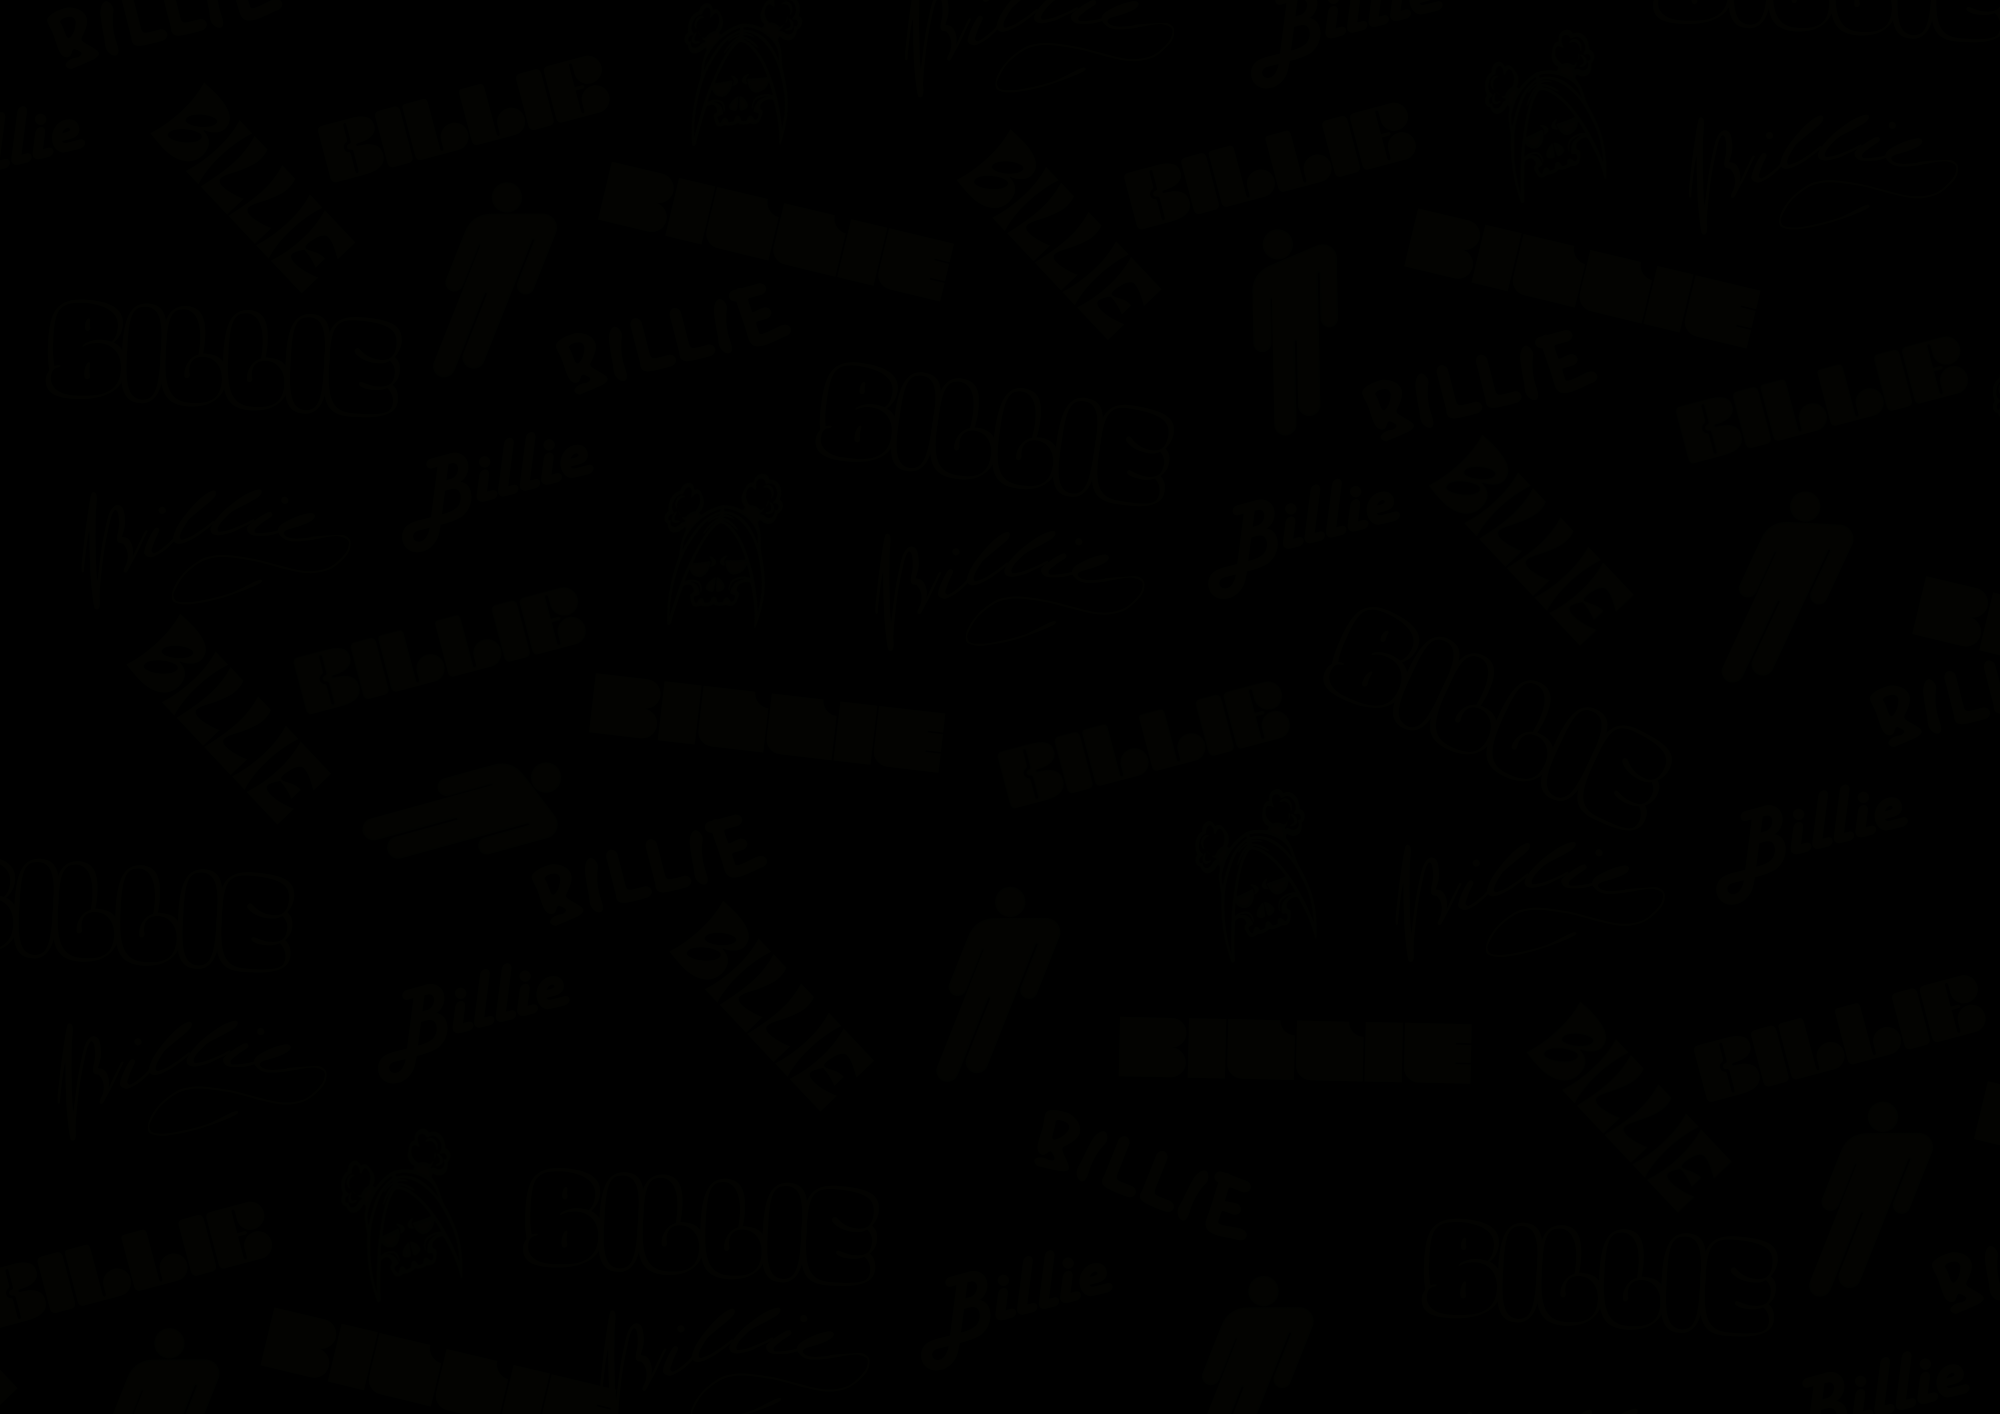
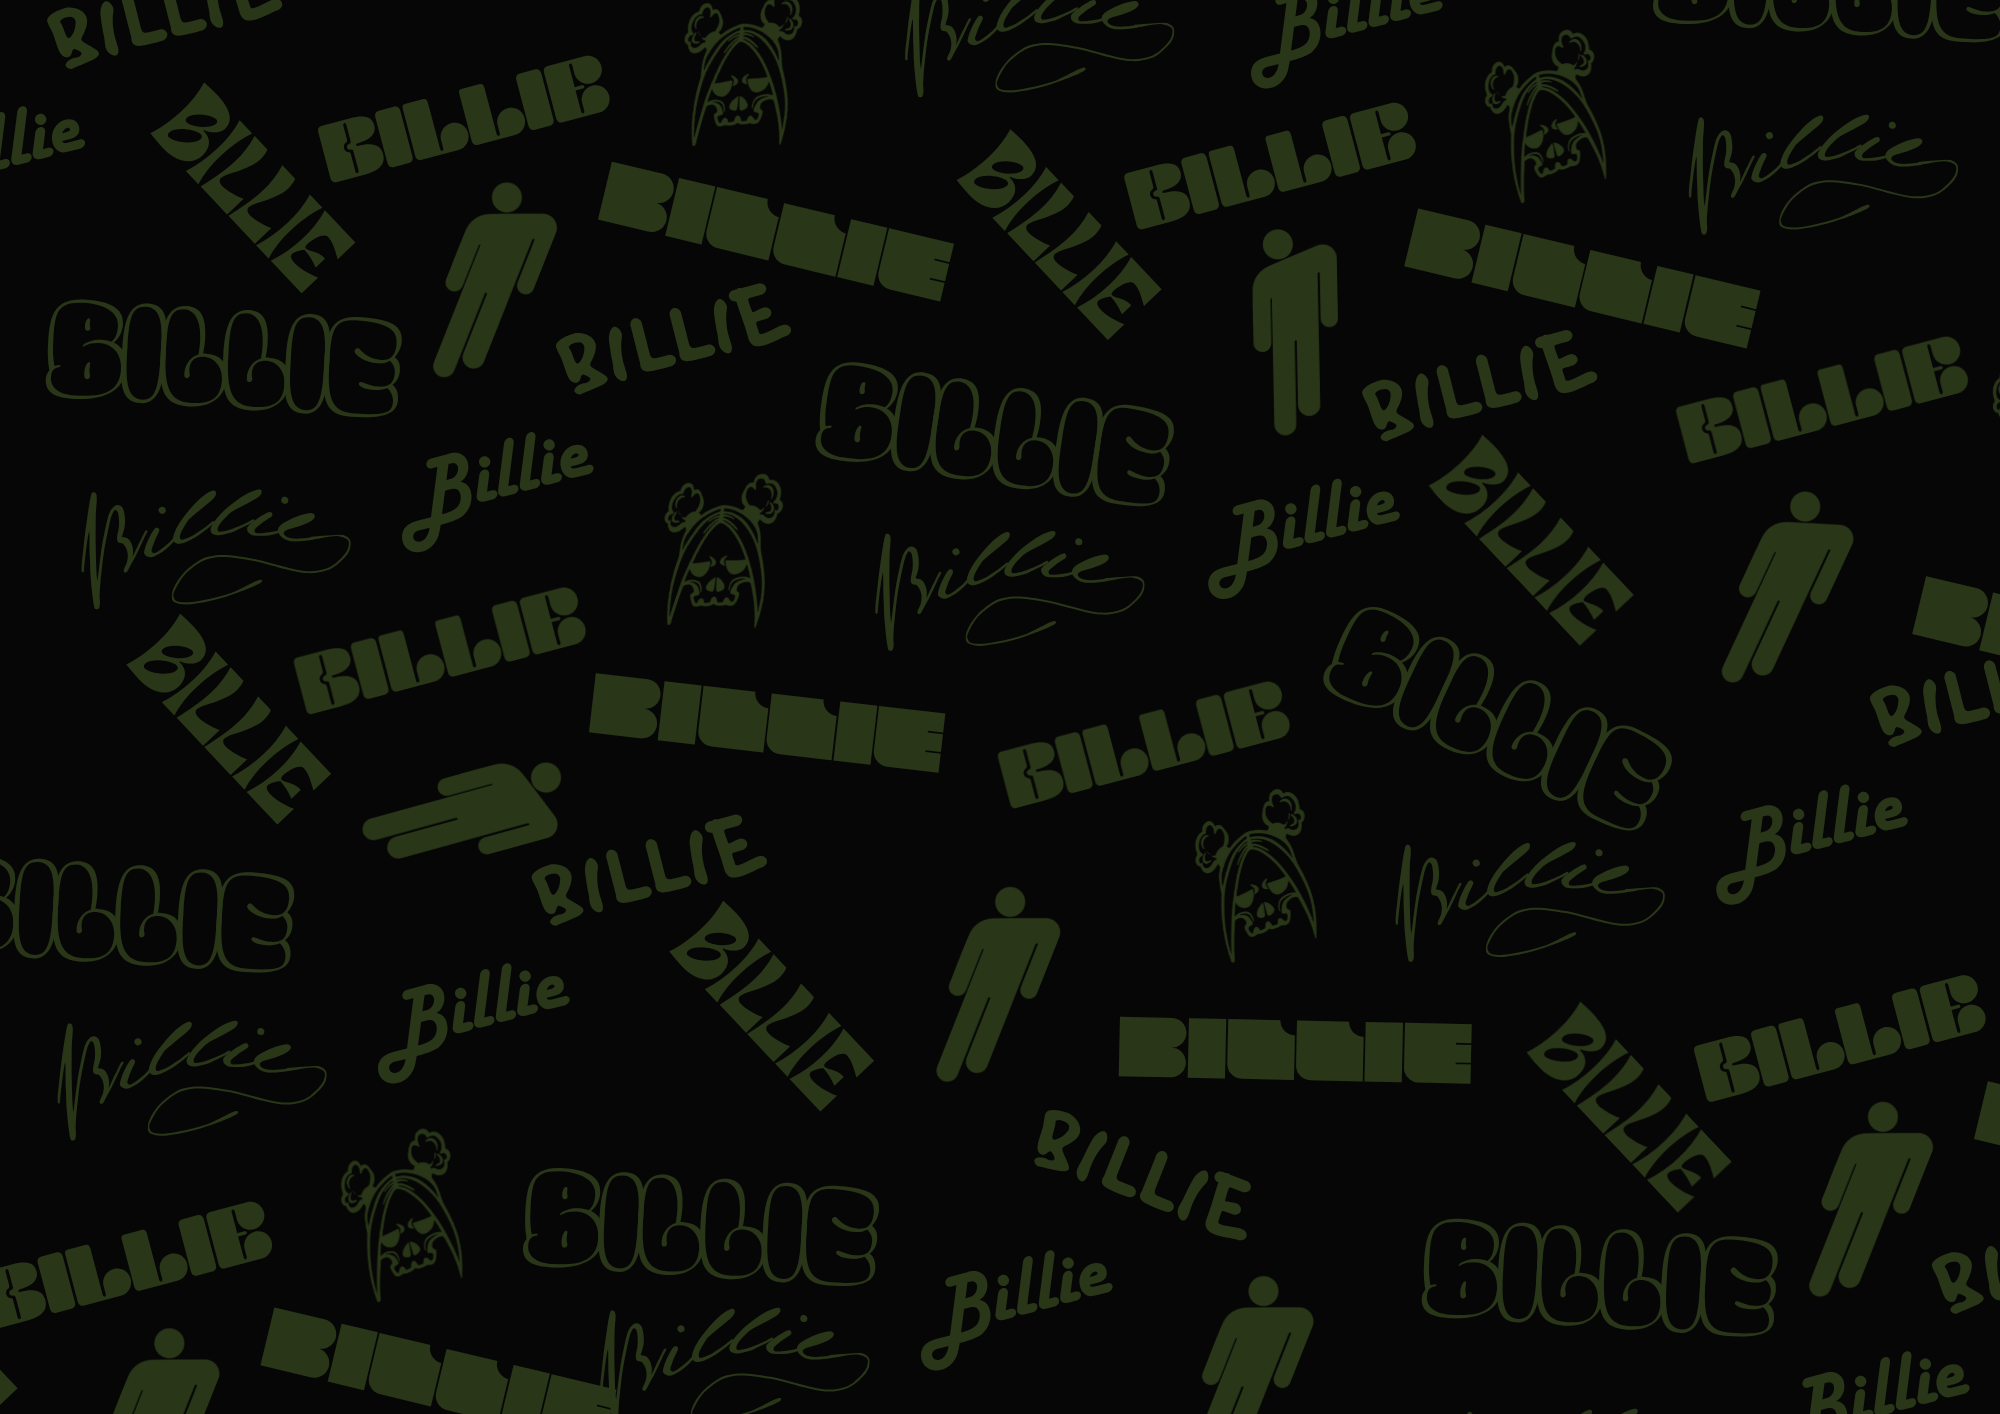
Conteúdo home adicionado

diff --git a/UI_ProjetoBillie/index.html b/UI_ProjetoBillie/index.html
@@ -63,30 +63,66 @@ fill="#E8F0F2" stroke="none">
         </div>        
     </div>
     <div id="main" class="col">
-        <div id="content_main" class = "container-main">
-            <!-- <div id="home_content">
-                <h1>Bem Vindo ao Mundo Billie</h1><br><br>
-                 <label for="home_content">Descubra tudo sobre a vida e carreira desta artista incrível.</label><br>
+        <img src="../assets/Banner_Billie2.png" alt="" class="banner">
+        <div id="content_main" class = "container-main">           
+                <div id="home_content">
+                <h1>Bem Vindo ao Mundo Billie</h1>
+
+                <img src="../assets/gettyimages-2013763181.jpg" alt="" style="width:  85%; height:85%"> <br>
+                
+                Billie Eilish Pirate Baird O’Connell nasceu em 18 de dezembro de 2001, em Los Angeles, EUA. Cresceu em um ambiente familiar muito artístico: tanto seus pais quanto seu irmão, Finneas O’Connell, sempre incentivaram a criatividade. Por conta disso, ela foi educada em casa (“home-schooling”), o que deu bastante liberdade para ela explorar a música desde muito jovem. 
+
+                <h2>Infância e os Primeiros Passos na Música</h2> 
+                                
+                Desde criança, Billie mostrou interesse por arte e música. Ela participou do coral infantil de Los Angeles, experimentou dança e equitação, e desenhava suas próprias ideias criativas. Quando tinha por volta de 11 anos, começou a compor suas próprias músicas — uma de suas primeiras canções “reais” foi escrita com a ajuda dos pais e do irmão. 
+                                
+                O irmão de Billie, Finneas, tem papel fundamental em sua trajetória: não só escreve para ela, mas também produz praticamente toda sua música. Foi Finneas quem escreveu a música “Ocean Eyes”, originalmente para sua própria banda, mas que ganhou vida quando Billie a interpretou. Eles publicaram a faixa no SoundCloud, ela viralizou e, pouco depois, Billie assinou contrato com as gravadoras Darkroom e Interscope. 
+                                
+                O Estouro com “Don’t Smile at Me” e o Primeiro Álbum
+                                
+                Em 2017, Billie lançou o EP Don’t Smile at Me, com um estilo que mistura pop intimista (“bedroom pop”), R&B e até nuances de jazz. Esse EP apresentou ao mundo a sua voz sussurrada e única, e músicas como “Ocean Eyes” e “Idontwannabeyouanymore” já chamavam a atenção.
+                                
+                No dia 29 de março de 2019, ela lançou seu primeiro álbum de estúdio, When We All Fall Asleep, Where Do We Go?. O álbum foi gravado no quarto do irmão Finneas, o que mostra a simplicidade e intimidade das produções iniciais dela. A estética sonora e visual do disco é sombria e muitas vezes experimental, com letras que exploram temas pessoais, existenciais e até perturbadores.
+                                
+                Uma das faixas mais conhecidas desse álbum é “Bad Guy”, que se tornou um grande sucesso mundial. A música atingiu o topo de várias paradas e se consolidou como uma das mais marcantes da carreira dela.
+                                
+                <h2>Reconhecimento e Prêmios</h2> 
+
+                Billie Eilish rapidamente alcançou reconhecimento muito grande. No Grammy de 2020, ela fez história: venceu Álbum do Ano, Canção do Ano, Gravação do Ano e Melhor Artista Revelação, entre outros. Além disso, ela conquistou vários outros prêmios ao longo de sua carreira, totalizando quase 200 troféus segundo alguns veículos da mídia. 
+                                
+                Em 2022, Billie e seu irmão Finneas escreveram e gravaram a faixa “No Time to Die” para o filme de James Bond. A canção rendeu à Billie seu primeiro Oscar de Melhor Canção Original. 
+                                
+                <h2>Segunda Fase: "Happier Than Ever“ e Evolução Artística</h2> 
+                                
+                Em 30 de julho de 2021, ela lançou o álbum Happier Than Ever, que marca um amadurecimento artístico. Nesse disco, Billie reflete sobre a fama, relacionamentos, poder pessoal e vulnerabilidades. As faixas são mais contidas, emocionalmente intensas, com arranjos minimalistas e letras cheias de sentimento. 
+                                
+                O álbum foi extremamente bem recebido pela crítica e pelos fãs, e também gerou turnê mundial para promovê-lo, reforçando sua presença no cenário pop global. 
+                                
+                <h2>Projetos para Filmes e Trilha Sonora</h2> 
+                                
+                Além dos álbuns, Billie colaborou em trilhas sonoras de filmes importantes. Além de “No Time to Die”, ela e Finneas escreveram “What Was I Made For?” para o filme Barbie (2023). Essa música foi um sucesso de crítica e prêmios: rendeu à Billie outro Oscar e também reconhecimento no Grammy. 
+                                
+                <h2>Temas Pessoais e Ativismo</h2> 
+                                
+                Billie não é apenas conhecida pela música: ela chama atenção pela sua postura sobre sustentabilidade. Já criticou o desperdício na indústria fonográfica, especialmente no que diz respeito a embalagens de vinil, defendendo práticas mais ecológicas para reduzir o impacto ambiental. 
+                                
+                Além disso, ela já falou abertamente sobre ter síndrome de Tourette, o que mostra sua transparência sobre saúde mental e neurológica — mais um ponto que a conecta com muitos fãs. Também dizem que ela tem sinestesia, percebendo cores ou formas quando ouve música, o que pode influenciar a maneira como compõe e interpreta suas canções. 
+                                
+                <h2>Estilo e Identidade</h2> 
+                                
+                Uma das marcas registradas de Billie é seu visual: roupas largas, estilo quase andrógino, que desafiam a estética tradicional de estrelas pop. Isso a torna autêntica e diferente dos estereótipos de “cantora pop adolescente”. 
+                                
+                A relação artística com Finneas também é parte fundamental do seu DNA musical: ele participa da composição, da produção e do processo criativo desde sempre. 
+                                
+                <h2>Legado e Importância</h2> 
+                                
+                Billie Eilish representa uma nova geração de artistas da Geração Z: reflexiva, tecnológica, e muito consciente de si mesma. Com sua voz suave, letras profundas e identidade visual forte, ela redefiniu parte do pop contemporâneo. 
+                                
+                Sua trajetória mostra que grandes conquistas podem vir de ambientes simples (como um estúdio no quarto), e que autenticidade artística, aliada ao talento e dedicação, têm poder real de impacto no mundo.
             
                 <div class="main_text" for ="home_content">
-                    <h3>Sua Infância</h3><br>
-                    Billie Eilish Pirate Baird O'Connel nasceu em 18 de dezembro de 2001 em Los Angeles,
-                    filha dos atores Maggie Baird e Patrick O'Connel, que rapidamente inseriram a filha no mundo da música, com 8  anos Billie já cantava
-                    no Coro Infantil de Los Angeles e aos 11 anos já compunha músicas com seu irmão Finneas O'Connel. <br><br>
-                    <h3>Inicio de Carreira</h3><br>
-                    Aos 13 anos Billie gravou a música "Ocean Eyes", composta por Finneas, que em 18 de Novembro de 2015
-                    foi lançada no SoundCloud. "Oceas Eyes" chamou a atenção da mídia e rapidamente viralizou, hoje a música conta com mais de 2 bilhões de streams no Spotify.
-                    O sucesso repentino levou a uma parceria com a gravadora DarkRoom e Interscope Records<br><br>
-                    <h3></h3>
+                    
                 </div>
-            </div>  -->               
-                <div id="home_content">
-                    <h2>Bem Vindo ao Mundo Billie</h2><br><br>
-                    <p>conteúdo HOME</p>
-                    <div style="display: flex;">
-                        <input type="text">
-                        <input type="text">
-                    </div>
                 </div>
 
                 <div id="quiz_content">

diff --git a/UI_ProjetoBillie/style.css b/UI_ProjetoBillie/style.css
@@ -20,14 +20,21 @@ html, body {
 
 .col:last-child{
     display: flex;
+    flex-direction: column  ;
     flex: 20    ;
-    background-color: #2b302c;
+    background-image: url(../assets/FUNDO_BILLIE_ESCURO.png);
     background-size: 100%;
-    align-items: start;
+    align-items: center;
     justify-content: center;
     height: 100%;
     overflow: auto;
     
+}
+
+.banner{
+    width: 100%;
+    height: 110vh; 
+    margin-top: 50%;   
 }
 
 hr {
@@ -78,7 +85,14 @@ svg{
     height: 80%;
     padding: 60px;
     color: #F5F5F5;
-    text-align: center;
+    text-align: start;
+    h1{
+        text-align: center;
+    }
+    img{
+        display: flex;
+        justify-self: center;
+    }
 }
 
 .formulario{
@@ -99,6 +113,7 @@ background-image: url(../assets/FUNDO_BILLIE_ESCURO.png);    background-size: co
     h1{
         text-align: center;
     }
+}
 
 .cadastro-content{
     display: flex;
@@ -113,5 +128,6 @@ background-image: url(../assets/FUNDO_BILLIE_ESCURO.png);    background-size: co
 #inicio_requisitos{
     color: white;
 }
+
 
 
